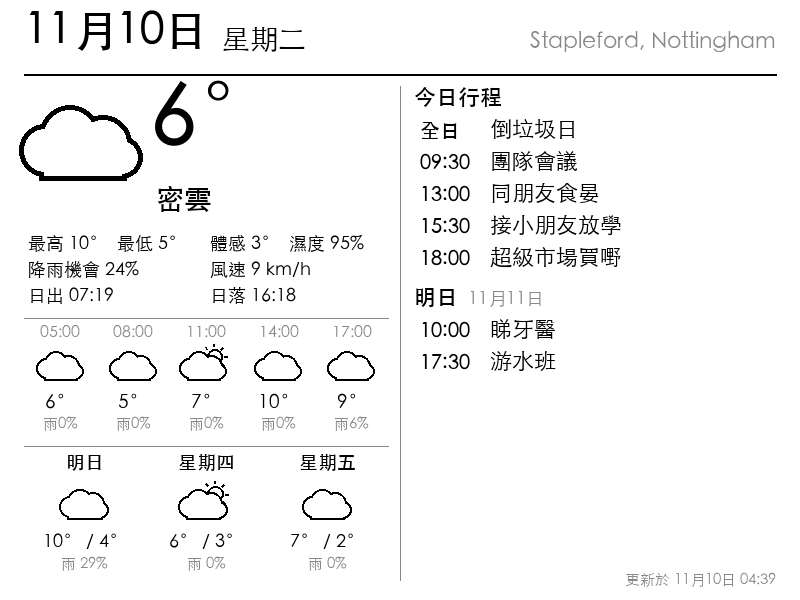
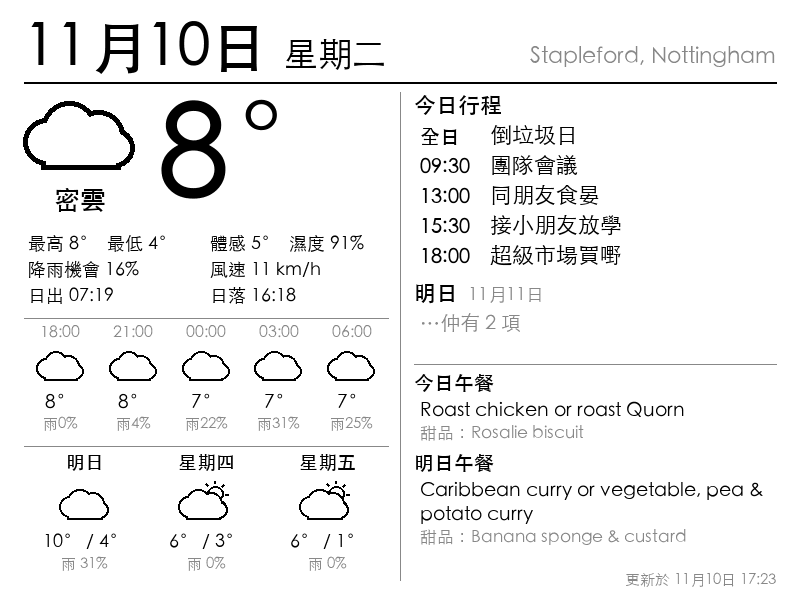
Bigger date and temperature; school lunch for today and tomorrow
Date and temperature are larger and placed by baseline so the Noto
font on GitHub lands where the Mac preview does. A lunch block under
the calendar shows today's and tomorrow's school menu (main and
dessert) from the Fire dashboard's menus.json; days without a menu
show nothing. The workflow reads that file from the private repo with
a read-only deploy key and skips it while the key isn't set.

diff --git a/renderer/render.py b/renderer/render.py
@@ -90,6 +90,19 @@ def fit(text, f, max_width):
     return text + "…"
 
 
+def wrap(text, f, max_width, max_lines):
+    """Split text into at most max_lines lines (by word), ellipsis on the last."""
+    words, lines = text.split(), []
+    while words and len(lines) < max_lines:
+        line = words.pop(0)
+        while words and text_width(line + " " + words[0], f) <= max_width:
+            line += " " + words.pop(0)
+        lines.append(line)
+    if words:
+        lines[-1] = fit(lines[-1] + " " + " ".join(words), f, max_width)
+    return [fit(line, f, max_width) for line in lines]
+
+
 def day_label(day, today):
     if day == today:
         return "今日"
@@ -105,7 +118,7 @@ def deg(value):
 # ------------------------------------------------------------------ layout
 
 
-def render(cfg, weather, events, calendar_note, now):
+def render(cfg, weather, events, calendar_note, now, lunches=()):
     img = Image.new("L", (WIDTH, HEIGHT), WHITE)
     d = ImageDraw.Draw(img)
     today = now.date()
@@ -113,20 +126,22 @@ def render(cfg, weather, events, calendar_note, now):
     left_end = SPLIT - 12  # right edge of the weather column
 
     # Header across the top: date, weekday, place.
+    # Placed by baseline ("ls" anchor) so Noto and the Mac preview fonts line up.
     date_text = f"{now.month}月{now.day}日"
-    d.text((MARGIN, 8), date_text, font=font(44, "bold"), fill=BLACK)
-    date_w = text_width(date_text, font(44, "bold"))
-    d.text((MARGIN + date_w + 14, 24), WEEKDAYS[now.weekday()], font=font(28), fill=BLACK)
+    d.text((MARGIN, 68), date_text, font=font(58, "bold"), fill=BLACK, anchor="ls")
+    date_w = text_width(date_text, font(58, "bold"))
+    d.text((MARGIN + date_w + 16, 66), WEEKDAYS[now.weekday()], font=font(34), fill=BLACK, anchor="ls")
     place = cfg["location_name"]
-    d.text((right - text_width(place, font(22)), 30), place, font=font(22), fill=GREY)
-    d.line([(MARGIN, 74), (right, 74)], fill=BLACK, width=2)
-    d.line([(SPLIT, 86), (SPLIT, HEIGHT - 20)], fill=GREY, width=1)
+    d.text((right - text_width(place, font(22)), 64), place, font=font(22), fill=GREY, anchor="ls")
+    d.line([(MARGIN, 82), (right, 82)], fill=BLACK, width=2)
+    d.line([(SPLIT, 92), (SPLIT, HEIGHT - 20)], fill=GREY, width=1)
 
-    # --- Left column: weather.
+    # --- Left column: weather. Description sits under the icon so the
+    # temperature can be big.
     today_forecast = weather.days[0]
-    draw_icon(d, weather.code, MARGIN + 58, 148, 116, night=not weather.is_day)
-    d.text((150, 76), deg(weather.temp), font=font(84, "bold"), fill=BLACK)
-    d.text((156, 184), describe(weather.code), font=font(28, "bold"), fill=BLACK)
+    draw_icon(d, weather.code, MARGIN + 56, 140, 104, night=not weather.is_day)
+    _centred(d, MARGIN + 56, 186, describe(weather.code), font(26, "bold"), BLACK)
+    d.text((158, 204), deg(weather.temp), font=font(128, "bold"), fill=BLACK, anchor="ls")
 
     details = [
         (f"最高 {deg(today_forecast.t_max)}  最低 {deg(today_forecast.t_min)}",
@@ -162,9 +177,16 @@ def render(cfg, weather, events, calendar_note, now):
         _centred(d, x + col_w / 2, 532, f"{deg(day.t_max)} / {deg(day.t_min)}", font(18), BLACK)
         _centred(d, x + col_w / 2, 556, f"雨 {day.rain}%", font(15), GREY)
 
-    # --- Right column: calendar.
+    # --- Right column: calendar, then school lunch (only if there is a menu).
+    col_left = SPLIT + 14
+    lunch_h = _lunch_height(lunches, right - col_left)
+    cal_bottom = 556 - lunch_h - (14 if lunches else 0)
     _draw_calendar(d, events, calendar_note, today,
-                   left=SPLIT + 14, right=right, top=86, bottom=556)
+                   left=col_left, right=right, top=94, bottom=cal_bottom)
+    if lunches:
+        top = cal_bottom + 6
+        d.line([(col_left, top), (right, top)], fill=GREY, width=1)
+        _draw_lunches(d, lunches, today, col_left, right, top + 8)
 
     # Footer under the calendar. The strip right of MARGIN is left blank:
     # the Kindle prints its battery level there, sideways.
@@ -186,8 +208,39 @@ def _centred(d, cx, y, text, f, fill):
     d.text((cx - text_width(text, f) / 2, y), text, font=f, fill=fill)
 
 
+LUNCH_HEAD, LUNCH_MAIN, LUNCH_DESSERT = 28, 24, 22  # line heights
+
+
+def _lunch_lines(lunch, width):
+    main = wrap(lunch.main, font(19), width, 2)
+    dessert = [fit("甜品：" + lunch.dessert, font(17), width)] if lunch.dessert else []
+    return main, dessert
+
+
+def _lunch_height(lunches, width):
+    total = 0
+    for lunch in lunches:
+        main, dessert = _lunch_lines(lunch, width - 6)
+        total += LUNCH_HEAD + LUNCH_MAIN * len(main) + LUNCH_DESSERT * len(dessert) + 6
+    return total
+
+
+def _draw_lunches(d, lunches, today, left, right, y):
+    for lunch in lunches:
+        main, dessert = _lunch_lines(lunch, right - left - 6)
+        d.text((left, y), f"{day_label(lunch.day, today)}午餐", font=font(20, "bold"), fill=BLACK)
+        y += LUNCH_HEAD
+        for line in main:
+            d.text((left + 6, y), line, font=font(19), fill=BLACK)
+            y += LUNCH_MAIN
+        for line in dessert:
+            d.text((left + 6, y), line, font=font(17), fill=GREY)
+            y += LUNCH_DESSERT
+        y += 6
+
+
 def _draw_calendar(d, events, note, today, left, right, top, bottom):
-    row_h = 32
+    row_h = 30
     title_font, time_font, heading_font = font(22), font(20, "bold"), font(22, "bold")
     y = top
 
@@ -235,6 +288,8 @@ def main():
     parser.add_argument("--out", default=HERE.parent / "out" / "dashboard.png")
     parser.add_argument("--demo-calendar", action="store_true",
                         help="show sample events instead of reading ICAL_URLS")
+    parser.add_argument("--menus", default=os.environ.get("MENUS_JSON", ""),
+                        help="school lunch menus.json (from the Fire dashboard); optional")
     args = parser.parse_args()
 
     cfg = json.loads(Path(args.config).read_text(encoding="utf-8"))
@@ -254,11 +309,12 @@ def main():
         elif failed == len(urls):
             note = "日曆暫時讀取唔到"
 
-    image = render(cfg, weather, events, note, now)
+    lunches = data.load_lunches(args.menus, now.date())
+    image = render(cfg, weather, events, note, now, lunches)
     out = Path(args.out)
     out.parent.mkdir(parents=True, exist_ok=True)
     image.save(out, optimize=True)
-    print(f"Saved {out} ({len(events)} events)")
+    print(f"Saved {out} ({len(events)} events, {len(lunches)} lunches)")
 
 
 if __name__ == "__main__":

diff --git a/renderer/data.py b/renderer/data.py
@@ -197,3 +197,46 @@ def demo_events(tz, now):
         Event(day=tomorrow, title="睇牙醫", start=at(tomorrow, 10, 0)),
         Event(day=tomorrow, title="游水班", start=at(tomorrow, 17, 30)),
     ]
+
+
+# ------------------------------------------------------------ school lunch
+
+
+@dataclass
+class Lunch:
+    day: date
+    main: str
+    dessert: str
+
+
+def load_lunches(path, today):
+    """School lunches for today and tomorrow from the Fire dashboard's menus.json.
+
+    The file holds {"menus": [{"weekOf": "<Monday>", "days": [5 x {main, sides,
+    dessert}]}]}. Days with no menu (weekends, missing weeks) are left out, and
+    a missing or unreadable file simply gives no lunches.
+    """
+    if not path:
+        return []
+    try:
+        with open(path, encoding="utf-8") as f:
+            menus = json.load(f)["menus"]
+    except (OSError, ValueError, KeyError, TypeError):
+        return []
+
+    by_day = {}
+    for menu in menus:  # later entries for the same week win
+        try:
+            monday = date.fromisoformat(menu["weekOf"])
+            for i, item in enumerate(menu["days"][:5]):
+                by_day[monday + timedelta(days=i)] = item
+        except (KeyError, TypeError, ValueError):
+            continue
+
+    lunches = []
+    for day in (today, today + timedelta(days=1)):
+        item = by_day.get(day)
+        if isinstance(item, dict) and str(item.get("main", "")).strip():
+            lunches.append(Lunch(day, str(item["main"]).strip(),
+                                 str(item.get("dessert", "")).strip()))
+    return lunches
